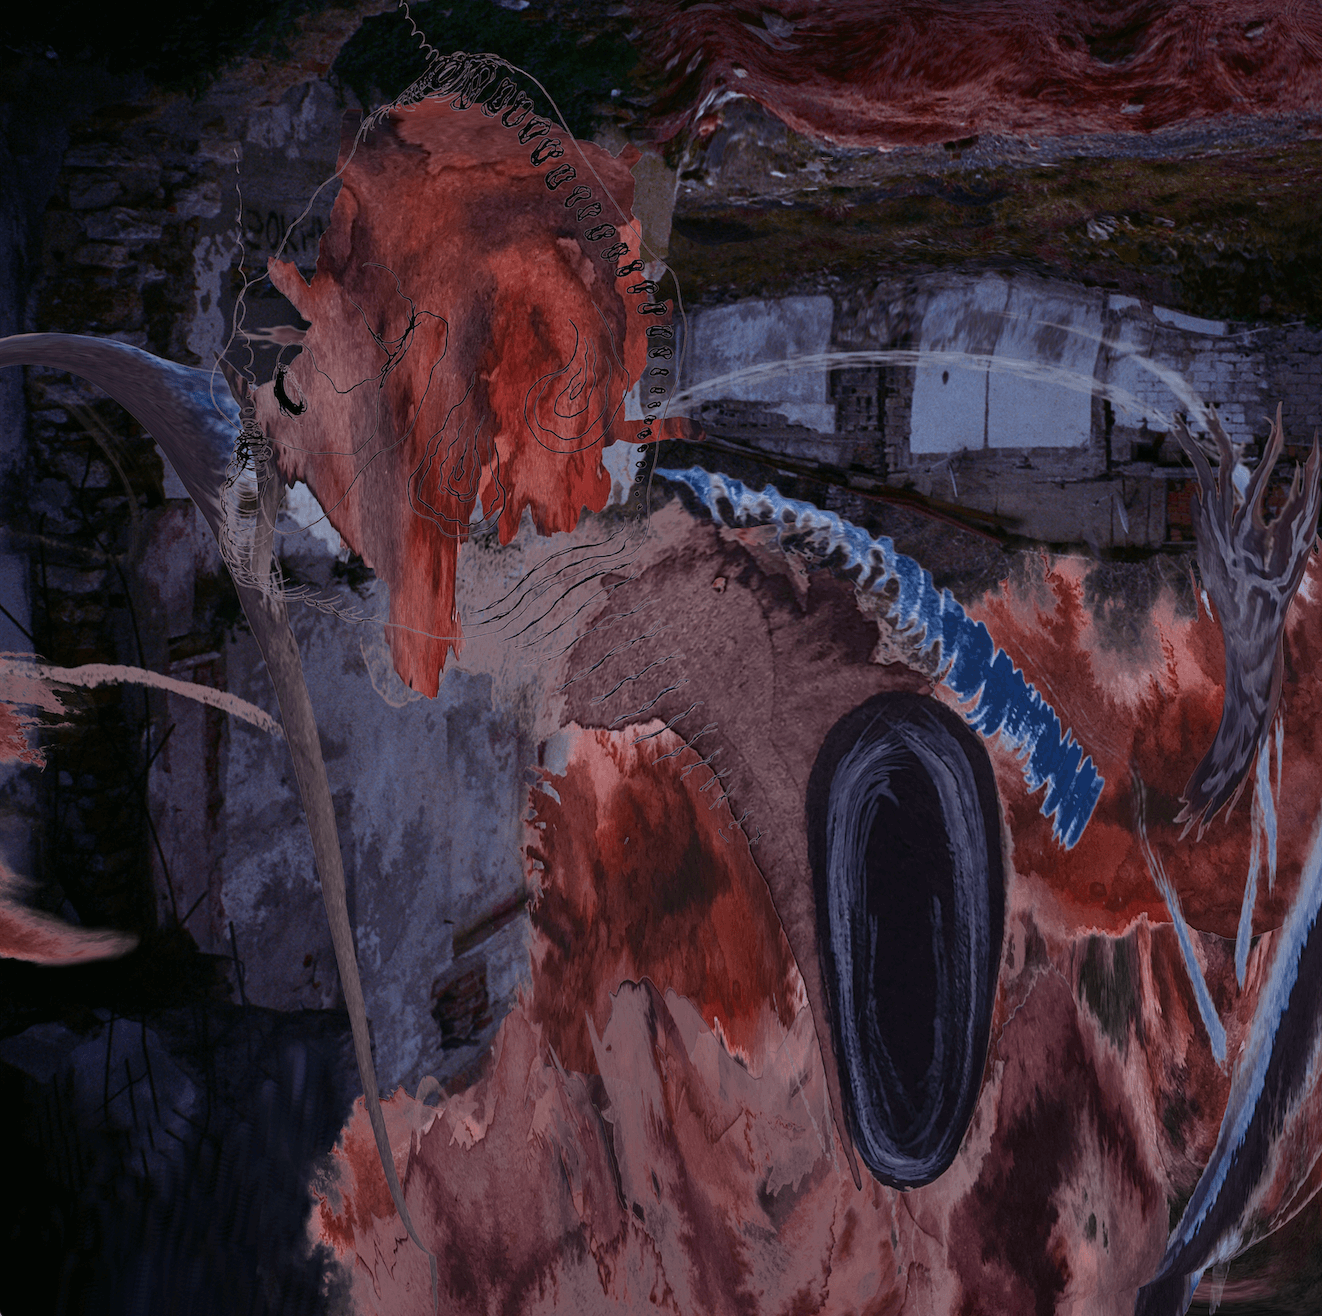
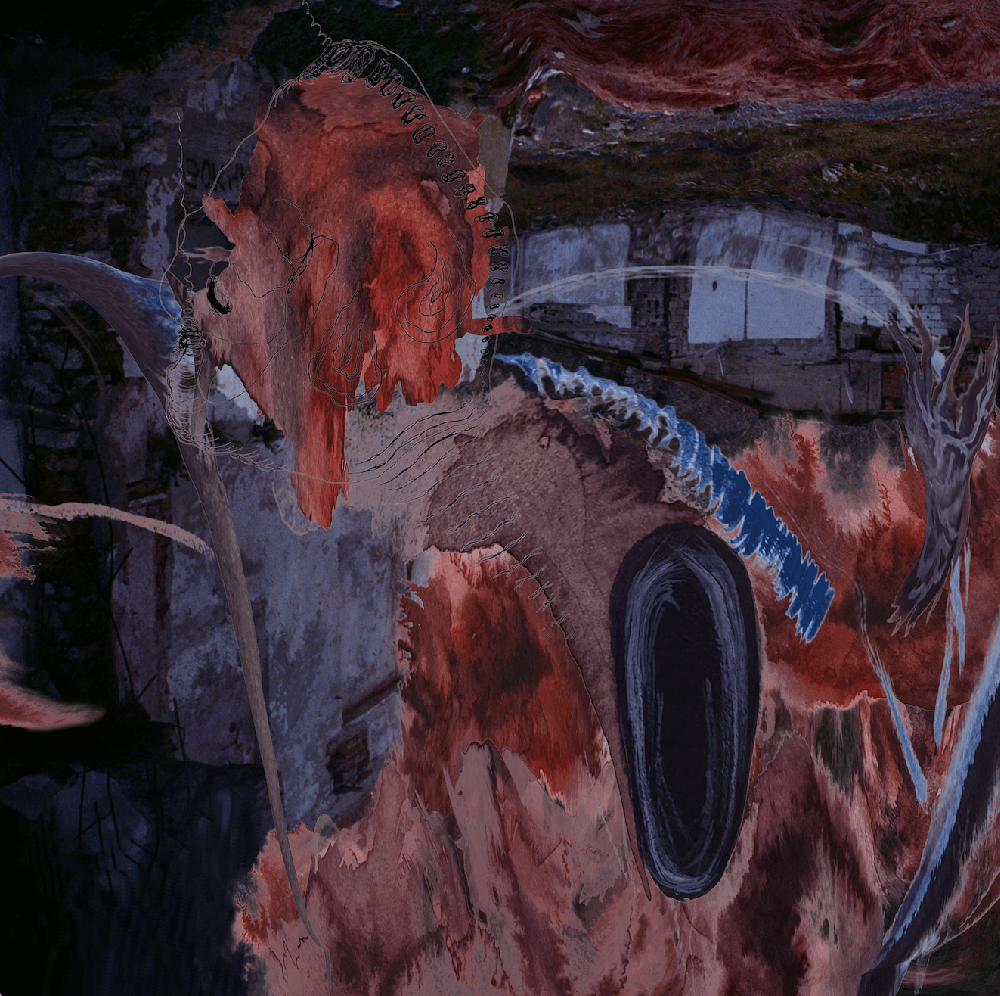
add twitter bot to projects, compress images

diff --git a/projects.html b/projects.html
@@ -26,11 +26,19 @@
 		</div>
 
 		<div class="projects-r">
-			<a href="https://garbage-time-is-running-out.surge.sh" target="_blank">
+			<div class="carousel">
 				<img src="img/chasm.png">
-			</a>
+<!-- 				<img src="img/bunnyy.png">
+				<button id="prev" onclick="changeImage(this, -1)"></button>
+				<button id="next" onclick="changeImage(this, 1)"></button> -->
+			</div>
 			<p>website featuring texts co-written by gpt-3 and me, with one branch and two endings. available <a href="https://garbage-time-is-running-out.surge.sh" target="_blank">here</a> (view on desktop for a better experience)</p>
 		</div>		
+
+		<div class="projects-l">
+			<img src="img/cut-up-bot.png" style="width: 80%; margin-left: 10%; margin-right: 10%;">
+			<p><a href="https://twitter.com/war_on_time">twitter bot</a> that scrapes the texts of walter benjamin's "work of art in the age of mechanical reproduction", cuts it into phrases, rearranges it, and posts the result every 4 hours. written in node.js and hosted on heroku</p>
+		</div>
 	</div>
 
 	<div id="replace_with_footer"></div>

diff --git a/style.css b/style.css
@@ -105,8 +105,22 @@ h1 a {text-decoration: none !important;}
 
 .projects-container {margin: auto;}
 
-.projects-container img {width: 100%; /*border-radius: 33px;*/}
+.projects-container img, .projects-container .carousel 
+{width: 100%; height: 100%; position: relative; /*border-radius: 33px;*/}
 
+.carousel #prev, .carousel #next 
+{
+	all: unset; cursor: pointer;
+	position: absolute;
+	width: 27%; height: 100%;
+	background-color: white; opacity: 0.5;
+	z-index: 20;
+}
+.carousel #prev {left: 0;}
+.carousel #next {right: 0;}
+
+/*.carousel img {display: none;}
+*/
 .projects-container p, .projects-container a
 {
 	text-align: center; color: black;

diff --git a/main.js b/main.js
@@ -1,8 +1,3 @@
-function scrollToTop() 
-{
-    window.scrollTo({top: 0, behavior: 'smooth'});
-}
-
 //reusable nav bar
 fetch('nav.html')
 .then(res => res.text())
@@ -22,3 +17,19 @@ fetch('footer.html')
     newelem.innerHTML = text;
     oldelem.parentNode.replaceChild(newelem,oldelem);
 })
+
+function scrollToTop() 
+{
+    window.scrollTo({top: 0, behavior: 'smooth'});
+}
+
+function changeImage(el, delta)
+{
+    let carousel = el.parentElement
+    let imageElements = carousel.getElementsByTagName("img")
+    //console.log(imageElements.item(0))
+
+    //get cur index (check style.display)?
+    //change index n display
+    
+}

diff --git a/about.html b/about.html
@@ -18,7 +18,11 @@
 	<h1><a href="/index.html">internet is gone</a></h1>
 
 	<div id="replace_with_navbar"></div>
-	
+
+<!-- 	<div style="text-align: center;">github repo for this page https://github.com/internetisgone/internetisgone.github.io</div>
+ -->	
+ 	<br>
+ 	<br>
 	<div id="replace_with_footer"></div>
 	<script type="text/javascript" src="main.js"></script>
 </body>
